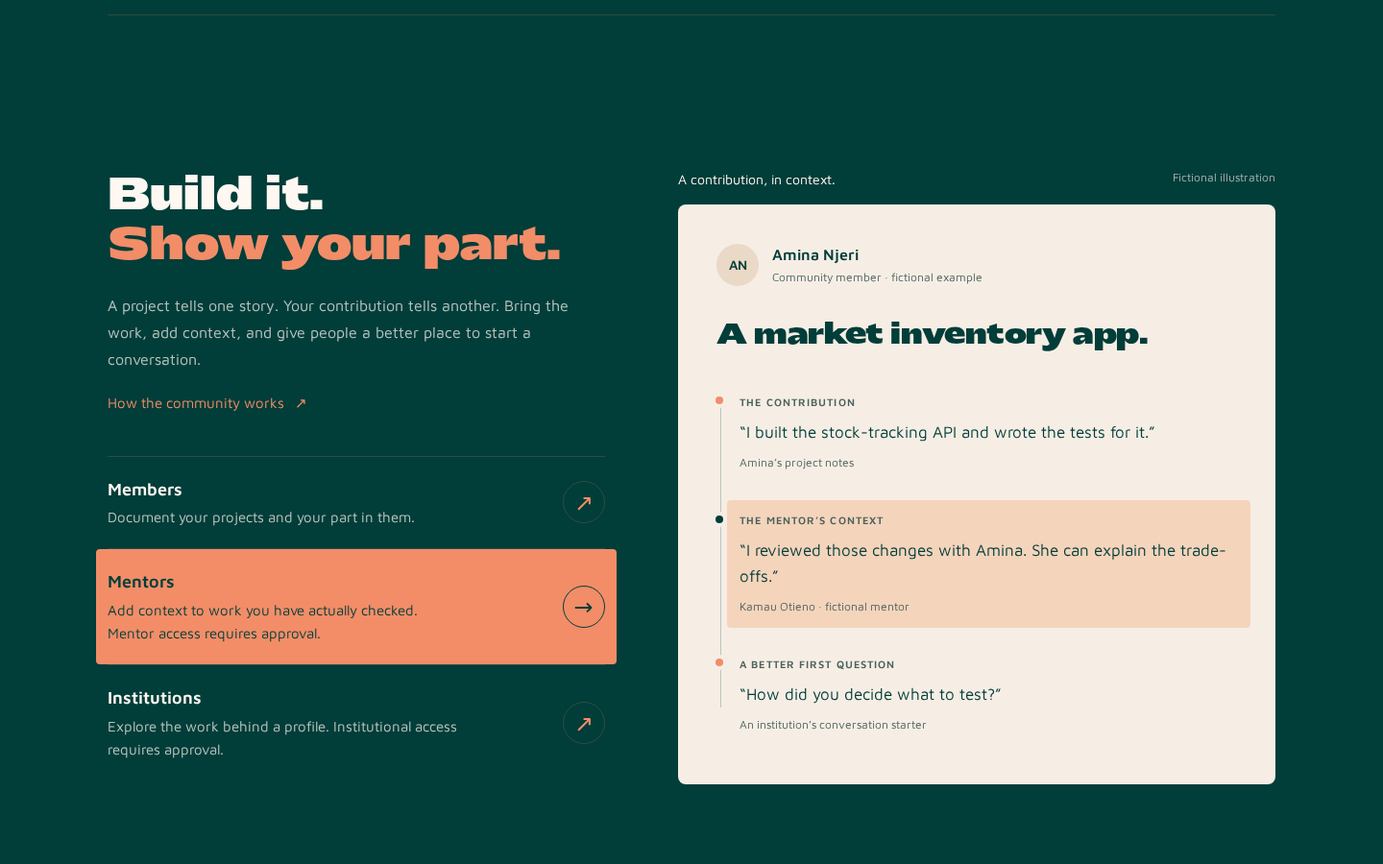
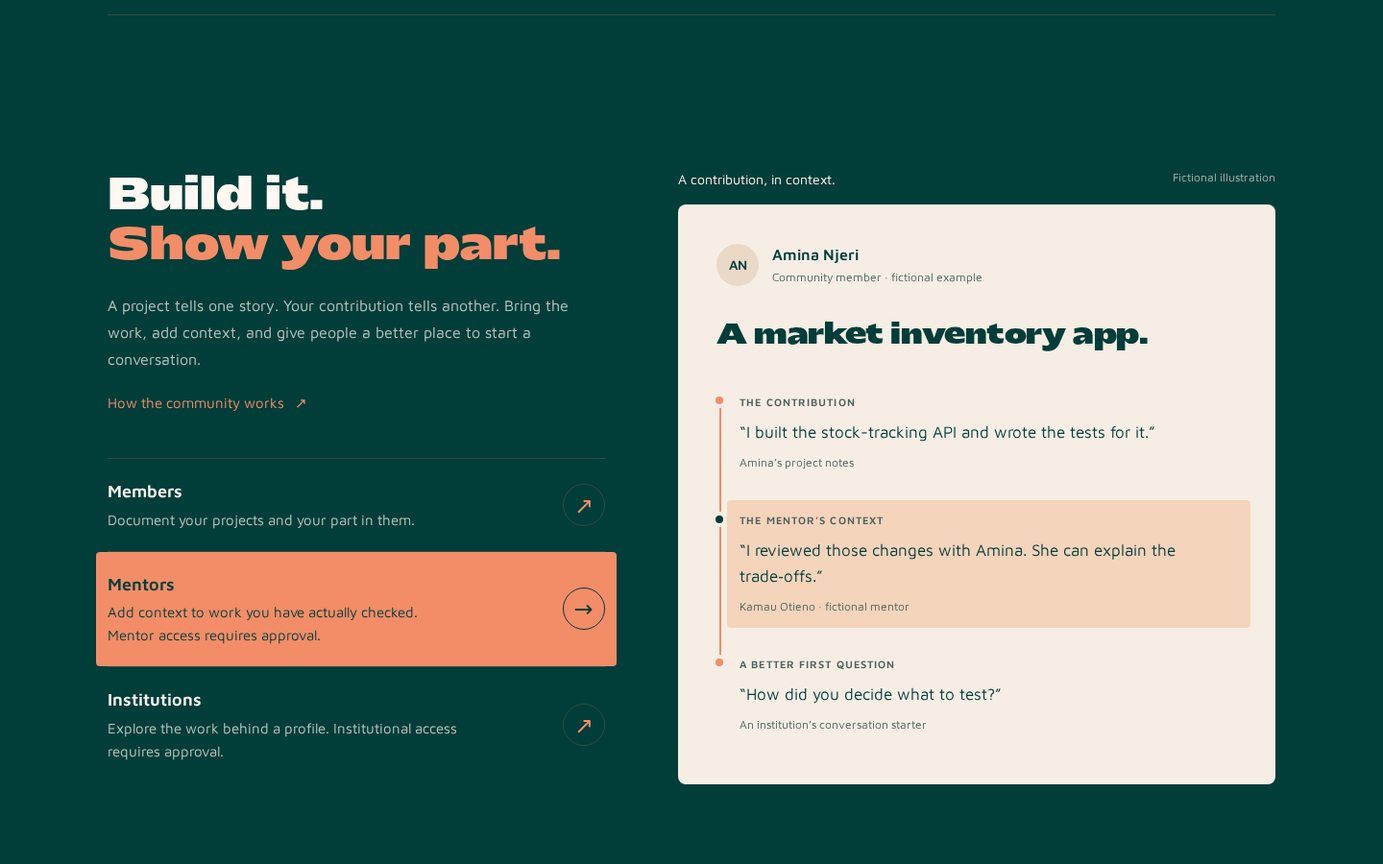
Refine mobile composition and motion after independent frame review

diff --git a/web/src/components/homepage/homepage.css b/web/src/components/homepage/homepage.css
@@ -4,7 +4,7 @@
 .home-hero { position: relative; padding-top: clamp(3rem, 7vw, 6.5rem); padding-bottom: clamp(4rem, 7vw, 6rem); }
 .home-wordmark { margin: 0; font-family: var(--font-heading); letter-spacing: -.025em; font-size: clamp(2.5rem, 7.4vw, 6.25rem); line-height: 1.13; }
 .home-wordmark-line { display: block; overflow: clip; padding-bottom: .05em; }
-.home-wordmark-line > span { display: block; }
+.home-wordmark-line > span { display: block; overflow-wrap: anywhere; }
 .home-wordmark-line + .home-wordmark-line { color: var(--color-primary); }
 .home-invitation { margin-top: 2rem; max-width: 36rem; }
 .home-description { max-width: 34rem; font-size: clamp(1rem, 1.5vw, 1.125rem); line-height: 1.75; color: var(--color-ink-secondary); }
@@ -23,6 +23,10 @@
 .home-explanation { margin-top: 1.5rem; max-width: 30rem; font-size: 1rem; line-height: 1.75; color: var(--color-ink-secondary); }
 .home-section-intro > a { margin-top: .65rem; }
 .home-story { display: grid; gap: 3rem; }
+.home-story-copy { display: contents; }
+.home-section-intro { grid-row: 1; }
+.home-evidence { grid-row: 2; }
+.home-pathways { grid-row: 3; }
 .home-pathways { margin-top: 2rem; }
 .home-pathway { position: relative; isolation: isolate; display: flex; align-items: center; justify-content: space-between; gap: 1.5rem; padding-block: 1.25rem; border-top: 1px solid var(--color-rule); }
 .home-pathway::before { content: ""; position: absolute; z-index: -1; inset: 0 -.75rem; border-radius: .25rem; background: var(--color-primary); opacity: 0; transform: scaleY(.6); transform-origin: bottom; }
@@ -44,12 +48,13 @@
 .home-example-avatar { display: grid; flex-shrink: 0; place-items: center; width: 2.75rem; height: 2.75rem; border-radius: 50%; background: #ead9c7; font-size: .875rem; font-weight: 600; }
 .home-example-project { font-family: var(--font-heading); font-size: clamp(1.25rem, 2.4vw, 1.75rem); line-height: 1.25; letter-spacing: -.015em; margin-block: 2rem; }
 .home-evidence-thread { position: relative; padding-left: 1.5rem; }
-.home-evidence-thread::before { content: ""; position: absolute; left: .25rem; top: 1rem; bottom: 2.5rem; width: 1px; background: #b9c6bc; transform-origin: top; }
+.home-evidence-stem { position: absolute; left: -.5rem; top: 1.25rem; bottom: -2.25rem; width: 2px; background: #f28d68; transform-origin: top; }
+.home-evidence-item:last-child .home-evidence-stem { display: none; }
 .home-evidence-item { position: relative; padding: .85rem; margin-inline: -.85rem; border-radius: .25rem; }
 .home-evidence-item + .home-evidence-item { margin-top: 1rem; }
-.home-evidence-dot { position: absolute; left: -.75rem; top: 1rem; width: .5rem; height: .5rem; background: #f28d68; border-radius: 50%; box-shadow: 0 0 0 4px #f6eee5; }
+.home-evidence-dot { position: absolute; z-index: 1; left: -.75rem; top: 1rem; width: .5rem; height: .5rem; background: #f28d68; border-radius: 50%; box-shadow: 0 0 0 4px #f6eee5; }
 .home-evidence-label { font-size: .6875rem; font-weight: 600; letter-spacing: .1em; text-transform: uppercase; color: #4b625c; }
-.home-evidence-item > p + p { margin-top: .6rem; font-size: 1.0625rem; line-height: 1.55; }
+.home-evidence-content > p + p { margin-top: .6rem; font-size: 1.0625rem; line-height: 1.55; }
 .home-evidence-detail { display: block; margin-top: .6rem; font-size: .75rem; color: #4b625c; }
 .home-story[data-active-stage="contribution"] [data-evidence-stage="contribution"], .home-story[data-active-stage="mentor"] [data-evidence-stage="mentor"], .home-story[data-active-stage="question"] [data-evidence-stage="question"] { background: #f5d4bc; }
 .home-story[data-active-stage="contribution"] [data-evidence-stage="contribution"] .home-evidence-dot, .home-story[data-active-stage="mentor"] [data-evidence-stage="mentor"] .home-evidence-dot, .home-story[data-active-stage="question"] [data-evidence-stage="question"] .home-evidence-dot { background: #013d39; }
@@ -57,14 +62,19 @@
 .value-commitment-row { min-width: 0; }
 .value-word { font-family: var(--font-heading); font-size: 1.0625rem; letter-spacing: var(--tracking-subhead); color: var(--color-primary); overflow-wrap: anywhere; }
 .value-commitment-copy { margin-top: .85rem; line-height: 1.7; font-size: .9375rem; color: var(--color-ink-secondary); overflow-wrap: break-word; }
-.home-footer-lockup { container-type: inline-size; width: min(100%, 46rem); padding-block: 4rem 2rem; font-family: var(--font-heading); line-height: 1; letter-spacing: -.025em; }
+.home-footer-lockup { container-type: inline-size; width: min(100%, 32rem); padding-block: 4rem 2rem; font-family: var(--font-heading); line-height: 1; letter-spacing: -.025em; }
 .home-footer-lockup span { display: block; font-size: 19.1cqw; }
 .home-footer-lockup span + span { margin-top: .4rem; font-size: 8.1cqw; color: var(--color-primary); }
 @media (min-width: 640px) { .home-container { padding-inline: 1.5rem; } }
 @media (min-width: 1024px) {
   .home-container { padding-inline: 2rem; }
   .home-story { grid-template-columns: minmax(0, 5fr) minmax(0, 6fr); gap: 6.25%; }
-  .home-evidence { position: sticky; top: 7rem; }
+  .home-story { row-gap: 2rem; }
+  .home-section-intro { grid-column: 1; grid-row: 1; }
+  .home-pathways { grid-column: 1; grid-row: 2; margin-top: 0; }
+  .home-evidence { grid-column: 2; grid-row: 1 / span 2; }
+  #values { display: grid; grid-template-columns: minmax(0, 5fr) minmax(0, 6fr); gap: 6.25%; }
+  .home-commitments { grid-template-columns: 1fr; margin-top: 0; gap: 2rem; }
 }
 @media (prefers-reduced-motion: no-preference) {
   .home-wordmark-line > span { animation: home-typeset 950ms var(--home-ease) both; }
@@ -75,12 +85,15 @@
   .home-arrow, .home-button-arrow { transition: transform 450ms var(--home-ease); }
   .home-button, .home-text-link, .home-pathway, .home-pathway-copy, .home-pathway-link, .home-evidence-item, .home-evidence-dot { transition: color 300ms, background-color 350ms, border-color 300ms, text-decoration-color 300ms; }
   .home-pathway:is(:hover, :focus-visible) .home-arrow, .home-button:is(:hover, :focus-visible) .home-button-arrow { transform: rotate(45deg); }
-  @supports (animation-timeline: view()) {
-    .home-evidence { view-timeline-name: --home-evidence; }
-    .home-evidence-thread::before { animation: home-thread linear both; animation-timeline: --home-evidence; animation-range: entry 15% entry 85%; }
-  }
+
 }
 @keyframes home-typeset { from { transform: translateY(105%); } to { transform: translateY(0); } }
 @keyframes home-arrive { from { opacity: .3; transform: translateY(20px); } to { opacity: 1; transform: none; } }
 @keyframes home-rule { from { transform: scaleX(0); } to { transform: scaleX(1); } }
-@keyframes home-thread { from { transform: scaleY(0); } to { transform: scaleY(1); } }
+
+
+.home-motion-wait .home-wordmark-line > span, .home-motion-wait .home-invitation, .home-motion-wait .home-hero-line { animation-play-state: paused; }
+@media (max-width: 639px) {
+  .home-wordmark { font-size: clamp(2.75rem, 13.5vw, 3.3rem); }
+  .home-title-word { display: block; }
+}

diff --git a/web/e2e/homepage-values.browser.ts b/web/e2e/homepage-values.browser.ts
@@ -56,6 +56,7 @@ test("signed-in visitors have one direct journey action", async ({ page }) => {
 
 test("content and navigation survive disabled JavaScript", async ({ page }) => {
   await page.goto("/homepage-values.html");
+  await expect(page.locator("html")).not.toHaveClass(/home-motion-wait/);
   const html = await page.content();
   const context = await page.context().browser()!.newContext({ javaScriptEnabled: false });
   const staticPage = await context.newPage();
@@ -109,22 +110,27 @@ test("scroll reveals run and live reduced-motion changes cancel movement", async
   await page.goto("/homepage-values.html");
   const row = page.locator("[data-evidence-stage=question]");
   await row.scrollIntoViewIfNeeded();
-  await expect.poll(() => row.evaluate((el) => el.getAnimations().some((animation) => animation.playState === "running"))).toBe(true);
+  await expect.poll(() => row.evaluate((el) => el.getAnimations({ subtree: true }).some((animation) => animation.playState === "running"))).toBe(true);
   await page.emulateMedia({ reducedMotion: "reduce" });
-  await expect.poll(() => row.evaluate((el) => el.getAnimations().length)).toBe(0);
+  await expect.poll(() => row.evaluate((el) => el.getAnimations({ subtree: true }).length)).toBe(0);
   await expect(row).toBeVisible();
-  expect(await page.locator(".home-evidence-thread").evaluate((el) => getComputedStyle(el, "::before").animationName)).toBe("none");
+  expect(await page.locator(".home-evidence-thread").evaluate((el) => el.getAnimations({ subtree: true }).length)).toBe(0);
 });
 
-test("evidence connector draws over scrolling and settles at full length", async ({ page }) => {
-  await page.setViewportSize({ width: 1440, height: 900 });
+test("evidence segments draw once alongside their arriving context", async ({ page }) => {
+  await page.setViewportSize({ width: 1440, height: 700 });
   await page.goto("/homepage-values.html");
-  const top = await page.locator(".home-evidence").evaluate((el) => el.getBoundingClientRect().top + scrollY);
-  const scale = () => page.locator(".home-evidence-thread").evaluate((el) => new DOMMatrixReadOnly(getComputedStyle(el, "::before").transform).d);
-  await page.evaluate((y) => scrollTo(0, y), top - 850);
-  await expect.poll(scale).toBeLessThan(.2);
-  await page.evaluate((y) => scrollTo(0, y), top - 250);
-  await expect.poll(scale).toBeGreaterThan(.8);
+  const mentor = page.locator('[data-evidence-stage="mentor"]');
+  const stem = page.locator(".home-evidence-stem").first();
+  await mentor.scrollIntoViewIfNeeded();
+  await expect.poll(() => stem.evaluate((el) => el.getAnimations().some((animation) => animation.playState === "running"))).toBe(true);
+  const during = await stem.evaluate((el) => getComputedStyle(el).transform);
+  await expect.poll(() => stem.evaluate((el) => getComputedStyle(el).transform)).not.toBe(during);
+  await expect.poll(() => stem.evaluate((el) => el.getAnimations().length)).toBe(0);
+  expect(await stem.evaluate((el) => new DOMMatrixReadOnly(getComputedStyle(el).transform).d)).toBe(1);
+  await page.evaluate(() => scrollTo(0, 0));
+  await mentor.scrollIntoViewIfNeeded();
+  expect(await stem.evaluate((el) => el.getAnimations().length)).toBe(0);
 });
 
 test("unsupported intersection observer leaves all content and navigation usable", async ({ page }) => {
@@ -157,4 +163,25 @@ test("footer brand has balanced complete lines at desktop and mobile", async ({ 
       expect(await line.evaluate((el) => el.scrollWidth <= el.clientWidth + 1)).toBe(true);
     }
   }
+});
+
+test("200 percent mobile text does not clip masked headline words", async ({ page }) => {
+  await page.emulateMedia({ reducedMotion: "reduce" });
+  await page.setViewportSize({ width: 390, height: 844 });
+  await page.goto("/homepage-values.html");
+  await page.evaluate(() => { document.documentElement.style.fontSize = "200%"; });
+  for (const line of await page.locator(".home-wordmark-line > span").all()) {
+    expect(await line.evaluate((el) => el.scrollWidth <= el.clientWidth + 1)).toBe(true);
+  }
+  await assertHomepageValues(page);
+});
+
+test("mobile illustration precedes its audience links and headline has four deliberate lines", async ({ page }) => {
+  await page.setViewportSize({ width: 390, height: 844 });
+  await page.goto("/homepage-values.html");
+  const figure = (await page.locator(".home-evidence").boundingBox())!;
+  const pathways = (await page.locator(".home-pathways").boundingBox())!;
+  expect(figure.y + figure.height).toBeLessThan(pathways.y);
+  const lines = await page.locator(".home-title-word").evaluateAll((elements) => elements.map((el) => el.getBoundingClientRect().top));
+  expect(new Set(lines).size).toBe(4);
 });

diff --git a/web/src/components/homepage/motion.ts b/web/src/components/homepage/motion.ts
@@ -5,22 +5,6 @@ export function initHomepageMotion(root: HTMLElement): () => void {
   const animations = new Set<Animation>();
   const listeners = new AbortController();
   let observer: IntersectionObserver | undefined;
-  let disposed = false;
-  // Hold only the decorative entrance, for at most 500ms. Content is ordinary
-  // server markup; failed fonts, disabled JS and reduced motion remain usable.
-  const entrance = reduced.matches ? [] : Array.from(root.querySelectorAll<HTMLElement>(".home-wordmark-line > span, .home-invitation, .home-hero-line")).flatMap((element) => element.getAnimations());
-  entrance.forEach((animation) => { animation.pause(); animation.currentTime = 0; });
-  let fontTimeout: ReturnType<typeof setTimeout> | undefined;
-  const fonts = document.fonts ? Promise.all([
-    document.fonts.load('900 1em Mattone'),
-    document.fonts.load('400 1em "Maven Pro"'),
-    document.fonts.load('600 1em "Maven Pro"'),
-  ]).catch(() => undefined) : Promise.resolve();
-  void Promise.race([fonts, new Promise<void>((resolve) => { fontTimeout = setTimeout(resolve, 500); })]).then(() => {
-    clearTimeout(fontTimeout);
-    if (!disposed && !reduced.matches) entrance.forEach((animation) => animation.play());
-    return undefined;
-  });
   let hoveredStage = "";
   let focusedStage = "";
   const highlight = () => {
@@ -45,12 +29,27 @@ export function initHomepageMotion(root: HTMLElement): () => void {
         if (!(entry.target instanceof HTMLElement) || !entry.target.animate) continue;
         const stage = entry.target.dataset.evidenceStage;
         const delay = stage === "mentor" ? 130 : stage === "question" ? 260 : 0;
-        const animation = entry.target.animate([
-          { opacity: .25, transform: "translateY(24px)" },
-          { opacity: 1, transform: "translateY(0)" },
-        ], { duration: 850, delay, fill: "backwards", easing: "cubic-bezier(.22, 1, .36, 1)" });
-        animations.add(animation);
-        animation.onfinish = () => animations.delete(animation);
+        const animate = (element: HTMLElement | null, keyframes: Keyframe[], duration: number, offset = 0) => {
+          if (!element?.animate) return;
+          const animation = element.animate(keyframes, { duration, delay: delay + offset, fill: "backwards", easing: "cubic-bezier(.22, 1, .36, 1)" });
+          animations.add(animation);
+          animation.onfinish = () => animations.delete(animation);
+        };
+        if (stage) {
+          animate(entry.target.querySelector(".home-evidence-content"), [
+            { opacity: .15, transform: "translateX(24px)" }, { opacity: 1, transform: "translateX(0)" },
+          ], 850);
+          animate(entry.target.querySelector(".home-evidence-dot"), [
+            { transform: "scale(0)" }, { transform: "scale(1)" },
+          ], 500, 100);
+          animate(entry.target.previousElementSibling?.querySelector<HTMLElement>(".home-evidence-stem") ?? null, [
+            { transform: "scaleY(0)" }, { transform: "scaleY(1)" },
+          ], 650);
+        } else {
+          animate(entry.target, [
+            { opacity: .25, transform: "translateY(24px)" }, { opacity: 1, transform: "translateY(0)" },
+          ], 850);
+        }
       }
     }, { threshold: .05 });
     root.querySelectorAll("[data-home-reveal]").forEach((element) => observer?.observe(element));
@@ -58,9 +57,6 @@ export function initHomepageMotion(root: HTMLElement): () => void {
   configure();
   reduced.addEventListener("change", configure);
   return () => {
-    disposed = true;
-    clearTimeout(fontTimeout);
-    entrance.forEach((animation) => animation.cancel());
     observer?.disconnect();
     animations.forEach((animation) => animation.cancel());
     reduced.removeEventListener("change", configure);

diff --git a/web/src/components/homepage/PathwaysSection.tsx b/web/src/components/homepage/PathwaysSection.tsx
@@ -29,22 +29,25 @@ export default function PathwaysSection() {
           <p className="home-example-project">A market inventory app.</p>
           <div className="home-evidence-thread">
             <div className="home-evidence-item" data-evidence-stage="contribution" data-home-reveal>
-              <span className="home-evidence-dot" aria-hidden="true" />
+              <span className="home-evidence-stem" aria-hidden="true" /><span className="home-evidence-dot" aria-hidden="true" />
+              <div className="home-evidence-content">
               <p className="home-evidence-label">The contribution</p>
               <p>“I built the stock-tracking API and wrote the tests for it.”</p>
-              <span className="home-evidence-detail">Amina’s project notes</span>
+              <span className="home-evidence-detail">Amina’s project notes</span></div>
             </div>
             <div className="home-evidence-item" data-evidence-stage="mentor" data-home-reveal>
-              <span className="home-evidence-dot" aria-hidden="true" />
+              <span className="home-evidence-stem" aria-hidden="true" /><span className="home-evidence-dot" aria-hidden="true" />
+              <div className="home-evidence-content">
               <p className="home-evidence-label">The mentor’s context</p>
-              <p>“I reviewed those changes with Amina. She can explain the trade-offs.”</p>
-              <span className="home-evidence-detail">Kamau Otieno · fictional mentor</span>
+              <p>“I reviewed those changes with Amina. She can explain the trade‑offs.”</p>
+              <span className="home-evidence-detail">Kamau Otieno · fictional mentor</span></div>
             </div>
             <div className="home-evidence-item" data-evidence-stage="question" data-home-reveal>
-              <span className="home-evidence-dot" aria-hidden="true" />
+              <span className="home-evidence-stem" aria-hidden="true" /><span className="home-evidence-dot" aria-hidden="true" />
+              <div className="home-evidence-content">
               <p className="home-evidence-label">A better first question</p>
               <p>“How did you decide what to test?”</p>
-              <span className="home-evidence-detail">An institution’s conversation starter</span>
+              <span className="home-evidence-detail">An institution’s conversation starter</span></div>
             </div>
           </div>
         </div>

diff --git a/web/e2e/layout-integrity.spec.ts b/web/e2e/layout-integrity.spec.ts
@@ -137,13 +137,13 @@ test.describe("layout integrity", () => {
     await expect(page.getByText(/terms of service/i)).toHaveCount(0);
   });
 
-  test("the hero wordmark is never cropped by its own box", async ({ page }) => {
+  test("the homepage headline is never cropped by its own box", async ({ page }) => {
     await page.goto("/");
     await page.evaluate(() => document.fonts.ready);
 
     // 18vw once outgrew the section's padding at 768 and below, and a 5rem
     // floor sheared the final O off on a 390px phone.
-    const wordmark = page.locator("h1.font-heading").first();
+    const wordmark = page.getByRole("heading", { level: 1, name: "Great builders. Already here." });
     const overflow = await wordmark.evaluate((el) => el.scrollWidth - el.clientWidth);
     expect(overflow).toBeLessThanOrEqual(TOLERANCE_PX);
   });
@@ -152,6 +152,24 @@ test.describe("layout integrity", () => {
     await page.goto("/");
     await page.evaluate(() => document.fonts.ready);
     await assertHomepageValues(page);
+  });
+
+  test("homepage evidence responds to focus and its fitted footer stays complete", async ({ page }) => {
+    await page.goto("/");
+    await page.evaluate(() => document.fonts.ready);
+    const story = page.locator(".home-story");
+    await expect(story.getByText("Fictional illustration", { exact: true })).toBeVisible();
+    for (const stage of ["contribution", "mentor", "question"]) {
+      await page.locator(`[data-home-stage="${stage}"]`).focus();
+      await expect(story).toHaveAttribute("data-active-stage", stage);
+    }
+    const brand = page.locator("footer .home-footer-lockup span");
+    await expect(brand).toHaveText(["TEMBO", "TECH VENTURES"]);
+    for (const line of await brand.all()) {
+      expect(await line.evaluate((el) => el.scrollWidth - el.clientWidth)).toBeLessThanOrEqual(TOLERANCE_PX);
+    }
+    await page.emulateMedia({ reducedMotion: "reduce" });
+    expect(await page.locator(".home-wordmark-line > span").first().evaluate((el) => el.getAnimations().length)).toBe(0);
   });
 
   test("footer link columns survive the tablet breakpoint", async ({ page }) => {

diff --git a/web/src/components/homepage/font-gate.test.ts b/web/src/components/homepage/font-gate.test.ts
@@ -1,0 +1,45 @@
+import { readFileSync } from "node:fs";
+import { runInNewContext } from "node:vm";
+import { afterEach, describe, expect, it, vi } from "vitest";
+
+const source = readFileSync(new URL("./HomeMotionGate.astro", import.meta.url), "utf8").match(/<script is:inline>([\s\S]*?)<\/script>/)![1];
+function run(load?: () => Promise<unknown>) {
+  const classes = new Set<string>();
+  runInNewContext(source, {
+    document: {
+      documentElement: { classList: { add: (name: string) => classes.add(name), remove: (name: string) => classes.delete(name) } },
+      fonts: load ? { load } : undefined,
+    },
+    setTimeout, clearTimeout, Promise,
+  });
+  return classes;
+}
+afterEach(() => vi.useRealTimers());
+
+describe("pre-paint homepage font gate", () => {
+  it("releases the CSS entrance when the required fonts load", async () => {
+    vi.useFakeTimers();
+    const load = vi.fn(() => Promise.resolve([]));
+    const classes = run(load);
+    expect(classes.has("home-motion-wait")).toBe(true);
+    await vi.advanceTimersByTimeAsync(0);
+    expect(classes.has("home-motion-wait")).toBe(false);
+    expect(load).toHaveBeenCalledTimes(3);
+    expect(vi.getTimerCount()).toBe(0);
+  });
+  it("never holds an entrance longer than 500ms for stalled font requests", async () => {
+    vi.useFakeTimers();
+    const classes = run(() => new Promise(() => {}));
+    await vi.advanceTimersByTimeAsync(499);
+    expect(classes.has("home-motion-wait")).toBe(true);
+    await vi.advanceTimersByTimeAsync(1);
+    expect(classes.has("home-motion-wait")).toBe(false);
+  });
+  it("releases immediately on font failure or an unsupported font-loading API", async () => {
+    vi.useFakeTimers();
+    const classes = run(() => Promise.reject(new Error("font unavailable")));
+    await vi.advanceTimersByTimeAsync(0);
+    expect(classes.has("home-motion-wait")).toBe(false);
+    expect(run().has("home-motion-wait")).toBe(false);
+  });
+});

diff --git a/web/e2e/component-preview/homepage-values.tsx b/web/e2e/component-preview/homepage-values.tsx
@@ -1,4 +1,5 @@
 import { initHomepageMotion } from "../../src/components/homepage/motion";
+import fontGate from "../../src/components/homepage/HomeMotionGate.astro?raw";
 import React from "react";
 import { renderToString } from "react-dom/server";
 import HomeBrand from "../../src/components/homepage/HomeBrand";
@@ -6,6 +7,10 @@ import HomeIntroduction from "../../src/components/homepage/HomeIntroduction";
 // oxlint-disable-next-line import/no-unassigned-import -- Production typography and tokens.
 import "../../src/styles/global.css";
 
+// Execute the same pre-paint gate before inserting server-equivalent markup.
+const gate = document.createElement("script");
+gate.textContent = fontGate.match(/<script is:inline>([\s\S]*?)<\/script>/)![1];
+document.head.appendChild(gate);
 // Static markup, matching Astro's server-only React rendering. No hydration.
 document.getElementById("root")!.innerHTML = renderToString(<main><HomeIntroduction isAuthenticated={new URLSearchParams(location.search).has("signed-in")} /><footer className="home-container"><HomeBrand /></footer></main>);
 

diff --git a/web/src/components/homepage/HeroSection.tsx b/web/src/components/homepage/HeroSection.tsx
@@ -4,8 +4,8 @@ export default function HeroSection({ isAuthenticated = false }: { isAuthenticat
   return (
     <section className="home-hero home-container" aria-labelledby="home-title">
       <h1 id="home-title" aria-label="Great builders. Already here." className="home-wordmark">
-        <span className="home-wordmark-line"><span>Great builders.</span></span>
-        <span className="home-wordmark-line"><span>Already here.</span></span>
+        <span className="home-wordmark-line"><span><span className="home-title-word">Great</span>{" "}<span className="home-title-word">builders.</span></span></span>
+        <span className="home-wordmark-line"><span><span className="home-title-word">Already</span>{" "}<span className="home-title-word">here.</span></span></span>
       </h1>
       <div className="home-invitation">
         <p className="home-description">A practical tech community for early builders across Africa. Learn with working engineers and make your work easier to see—with or without a cohort.</p>

diff --git a/docs/homepage-elegance/second-take/README.md b/docs/homepage-elegance/second-take/README.md
@@ -2,9 +2,9 @@
 
 Raph's screenshot review called out the extreme brand scale disparity, inconsistent grid edges and motion that was too slight to notice. This revision leads with a clear Mattone message, aligns with the existing public navigation, and places one fictional contribution story beside the three audience paths. Hover or focus connects each audience to its part in that story. The brand closes the homepage as two complete, fitted lines.
 
-Opus independently inspected staging's desktop/mobile screenshots and timed load frames before proposing this direction. The implementation review uses running browser captures as well as static screenshots. The attached PNGs are **local component-harness evidence**, with a clearly fictional example; they exclude the public navigation/footer. Full-shell staging verification follows on the pushed revision.
+Opus independently inspected staging's desktop/mobile screenshots and timed load frames before proposing this direction. The implementation review uses running browser captures as well as static screenshots. The attached PNGs are **local component-harness evidence**, with a clearly fictional example; they exclude the public navigation/footer. Full-shell staging verification follows on the pushed revision. Opus independently captured 88 running frames at 60fps, then reviewed desktop/mobile layout and interactions. Its corrections add a pre-paint font gate (avoiding deferred-script replay), four deliberate mobile headline lines, the illustration before mobile audience links, and one consistent section split.
 
-Motion: 950ms masked headline rise with a 100ms second-line offset; a bounded 500ms font wait; 850ms evidence entrances staggered 130ms; a scroll-linked connector; peach hover/focus sweeps with arrow rotation and corresponding evidence emphasis. Reduced motion removes transforms/entrances while preserving readable content and color feedback. No animation dependency or React hydration is added. Unsupported IntersectionObserver and disabled JavaScript preserve content and destinations.
+Motion: 950ms masked headline rise with a 100ms second-line offset; a bounded 500ms font wait; 850ms evidence entrances staggered 130ms; peach connectors and dots drawn once as each stage arrives; peach hover/focus sweeps with arrow rotation and corresponding evidence emphasis. Reduced motion removes transforms/entrances while preserving readable content and color feedback. No animation dependency or React hydration is added. Unsupported IntersectionObserver and disabled JavaScript preserve content and destinations.
 
 Reproduce from `web/`:
 
